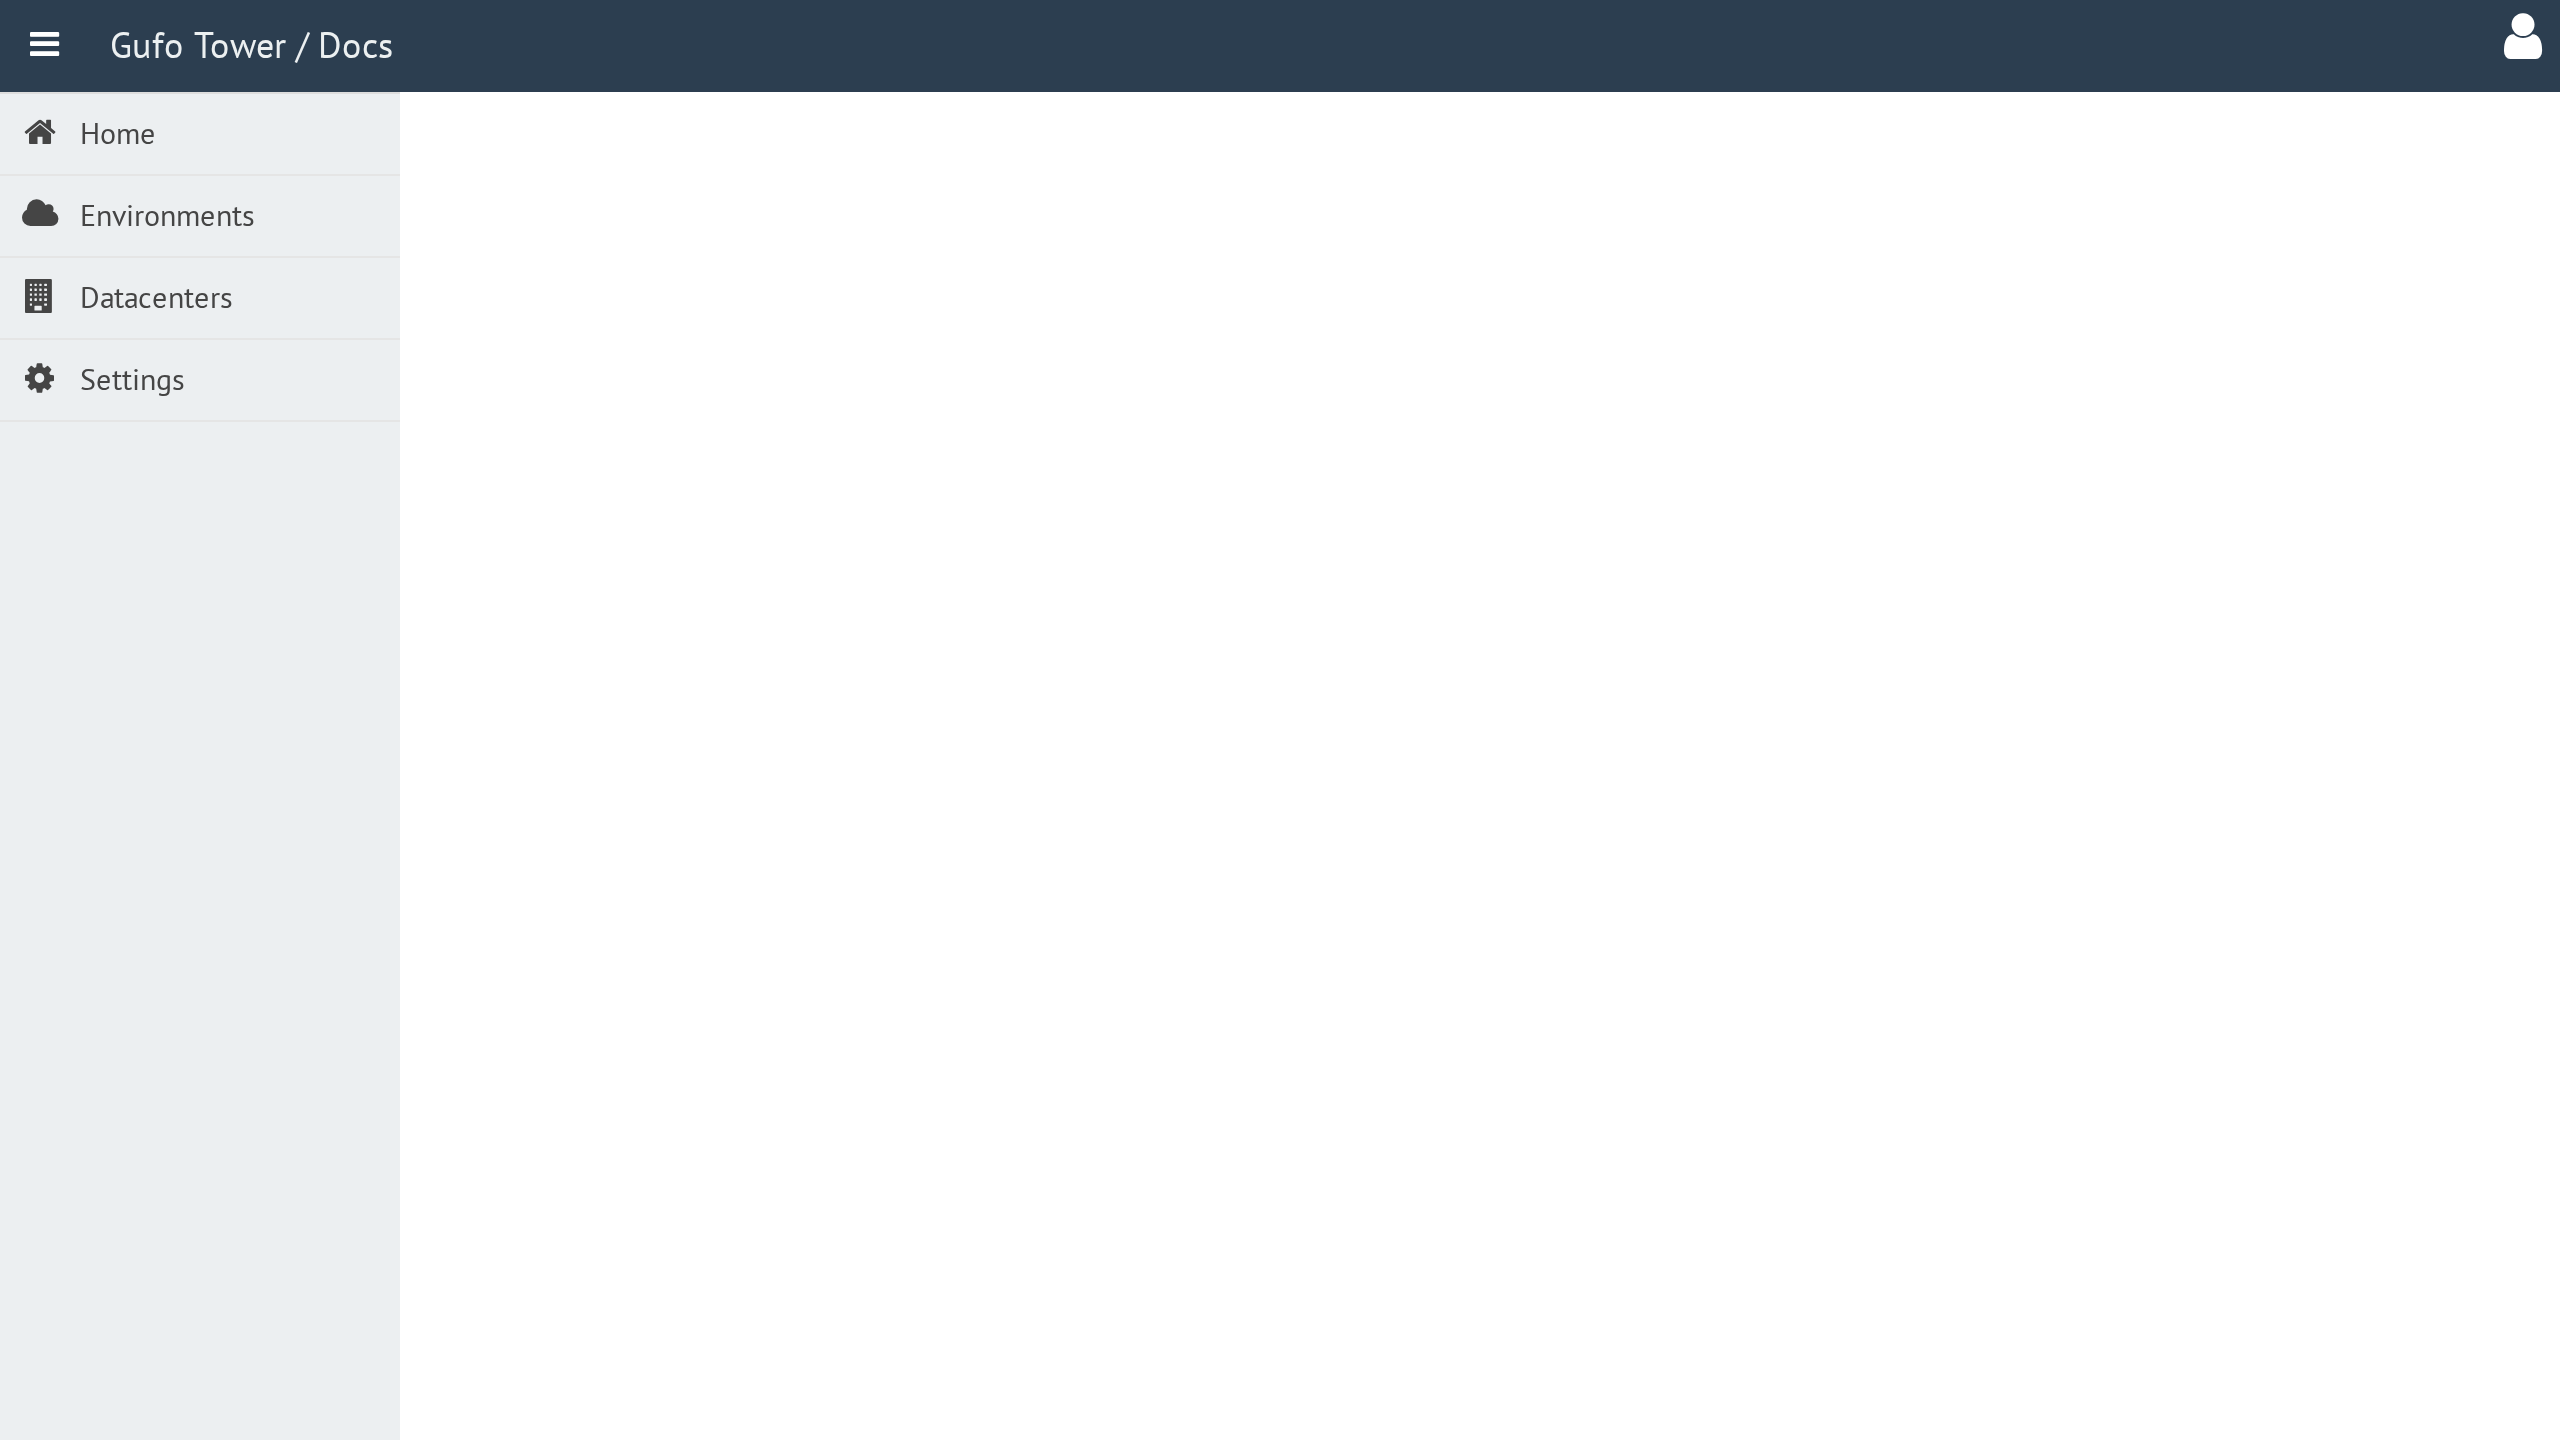
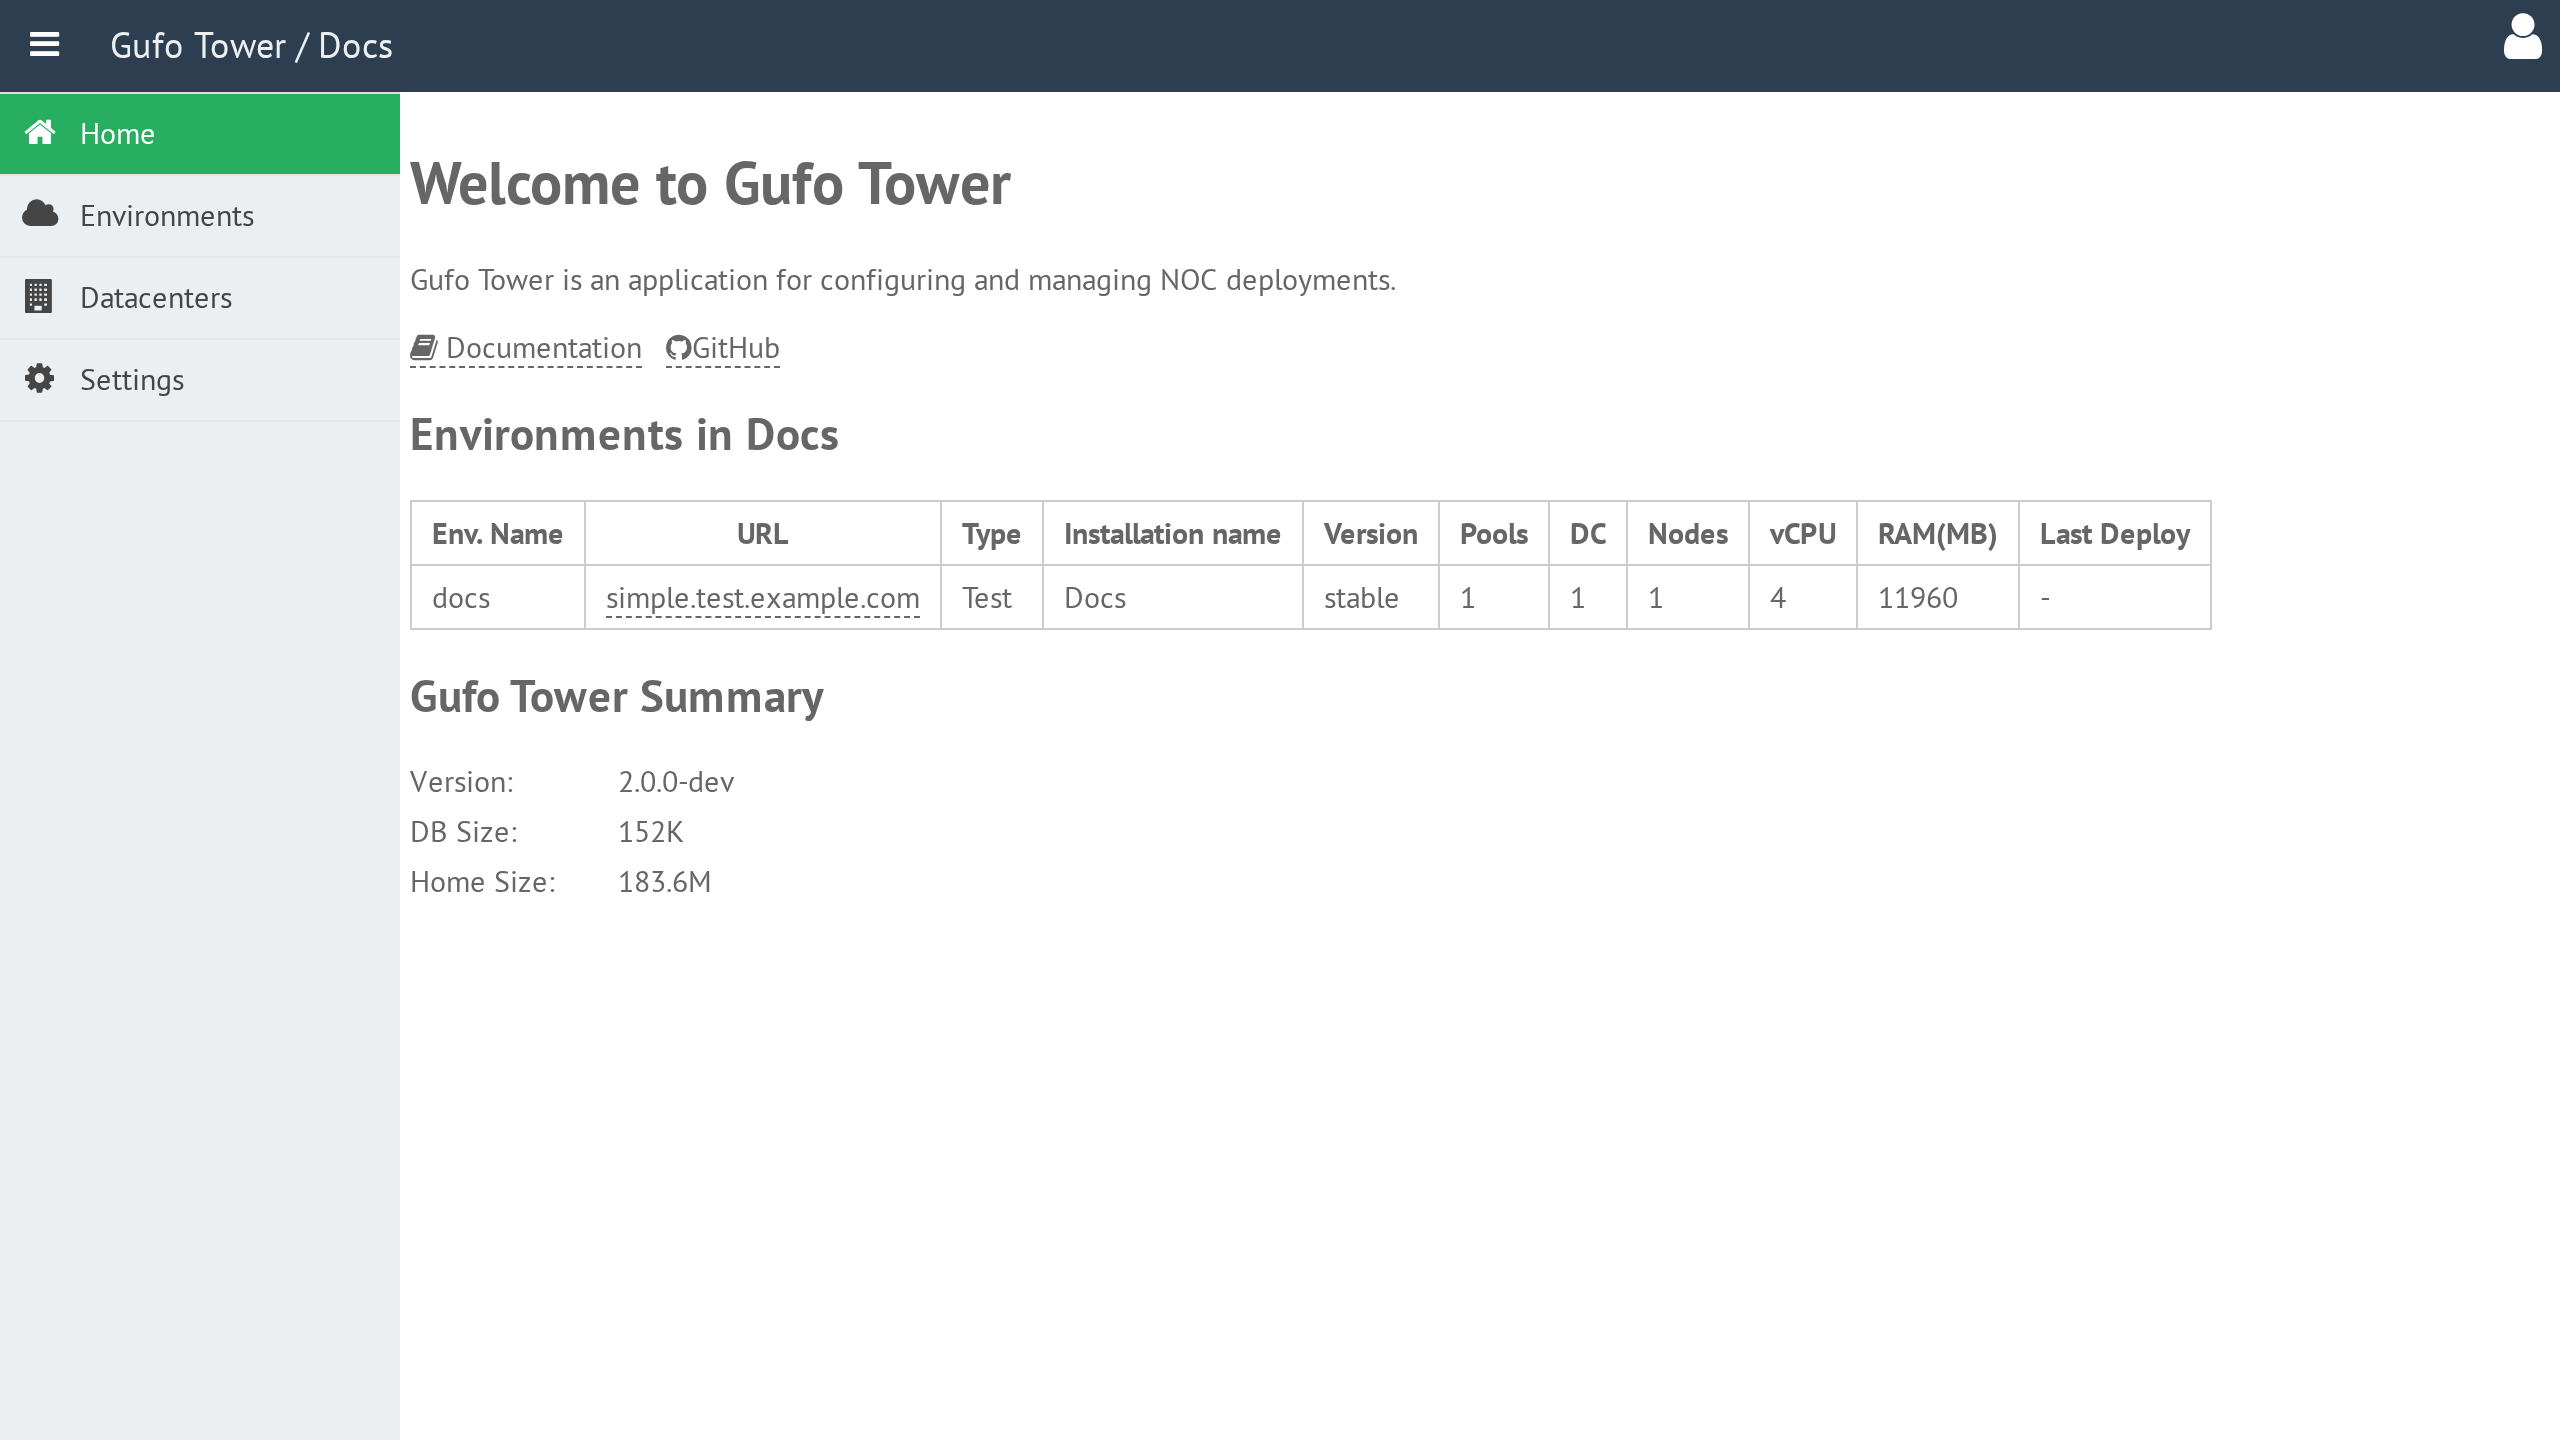
Home dashboard: wait for summary before making screenshot (#134)

diff --git a/docs/shotter/desktop.py b/docs/shotter/desktop.py
@@ -34,6 +34,7 @@ class DesktopShotter(BaseShotter):
 
     async def make_shots(self, page: Page) -> None:
         await self.open_page(page)
+        await page.locator("#tower-summary").wait_for()
         # Grab desktop
         await self.screenshot(page, "desktop")
         # Highlight header

diff --git a/docs/shotter/home.py b/docs/shotter/home.py
@@ -30,6 +30,7 @@ class HomeShotter(BaseShotter):
 
     async def make_shots(self, page: Page) -> None:
         await self.open_page(page)
+        await page.locator("#tower-summary").wait_for()
         # Grab desktop
         await self.screenshot(page, "home")
         # Env summary
